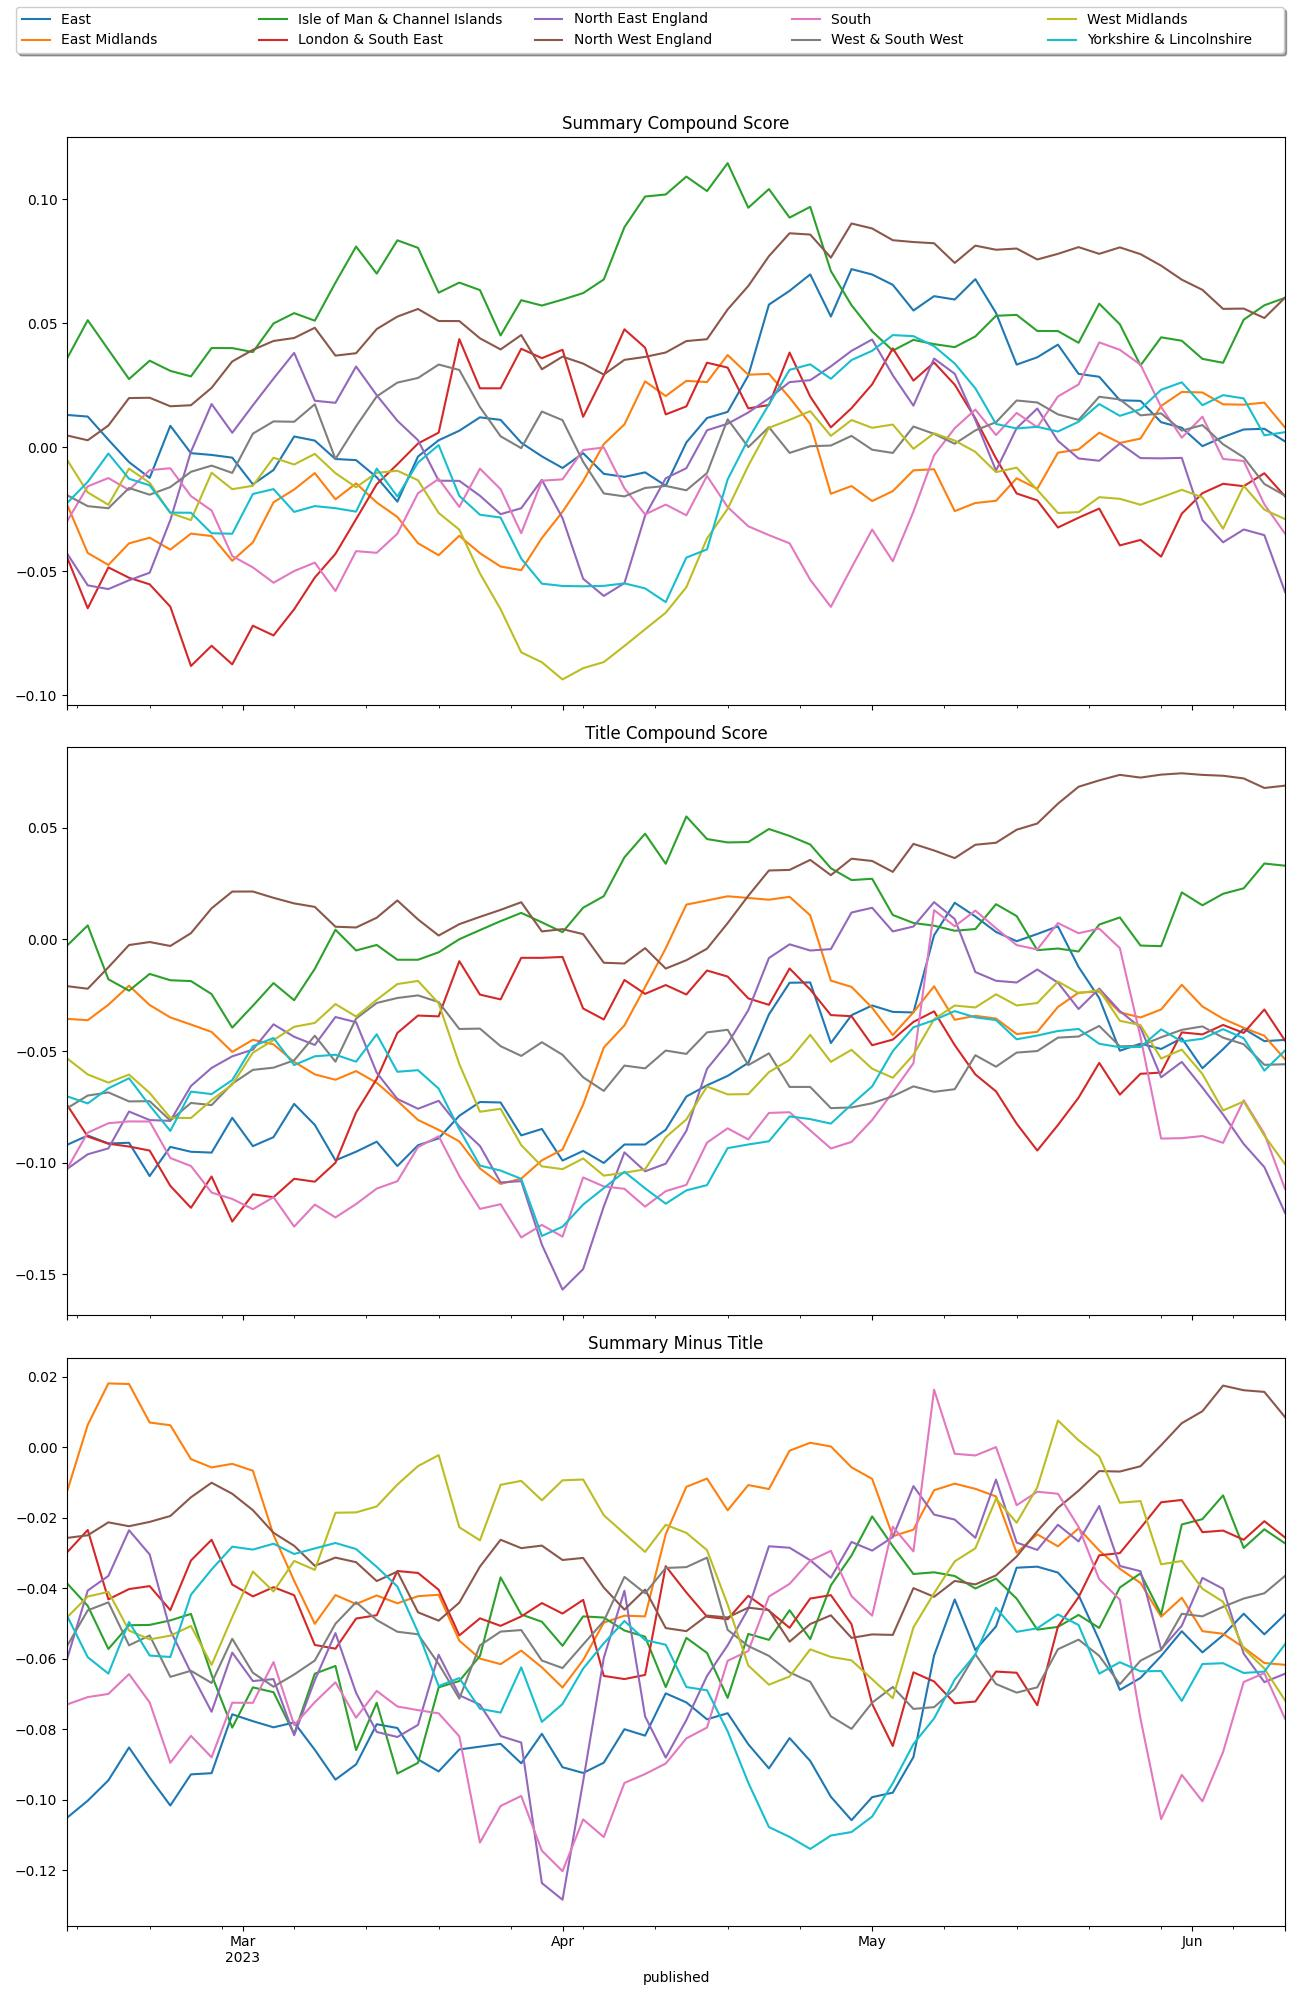
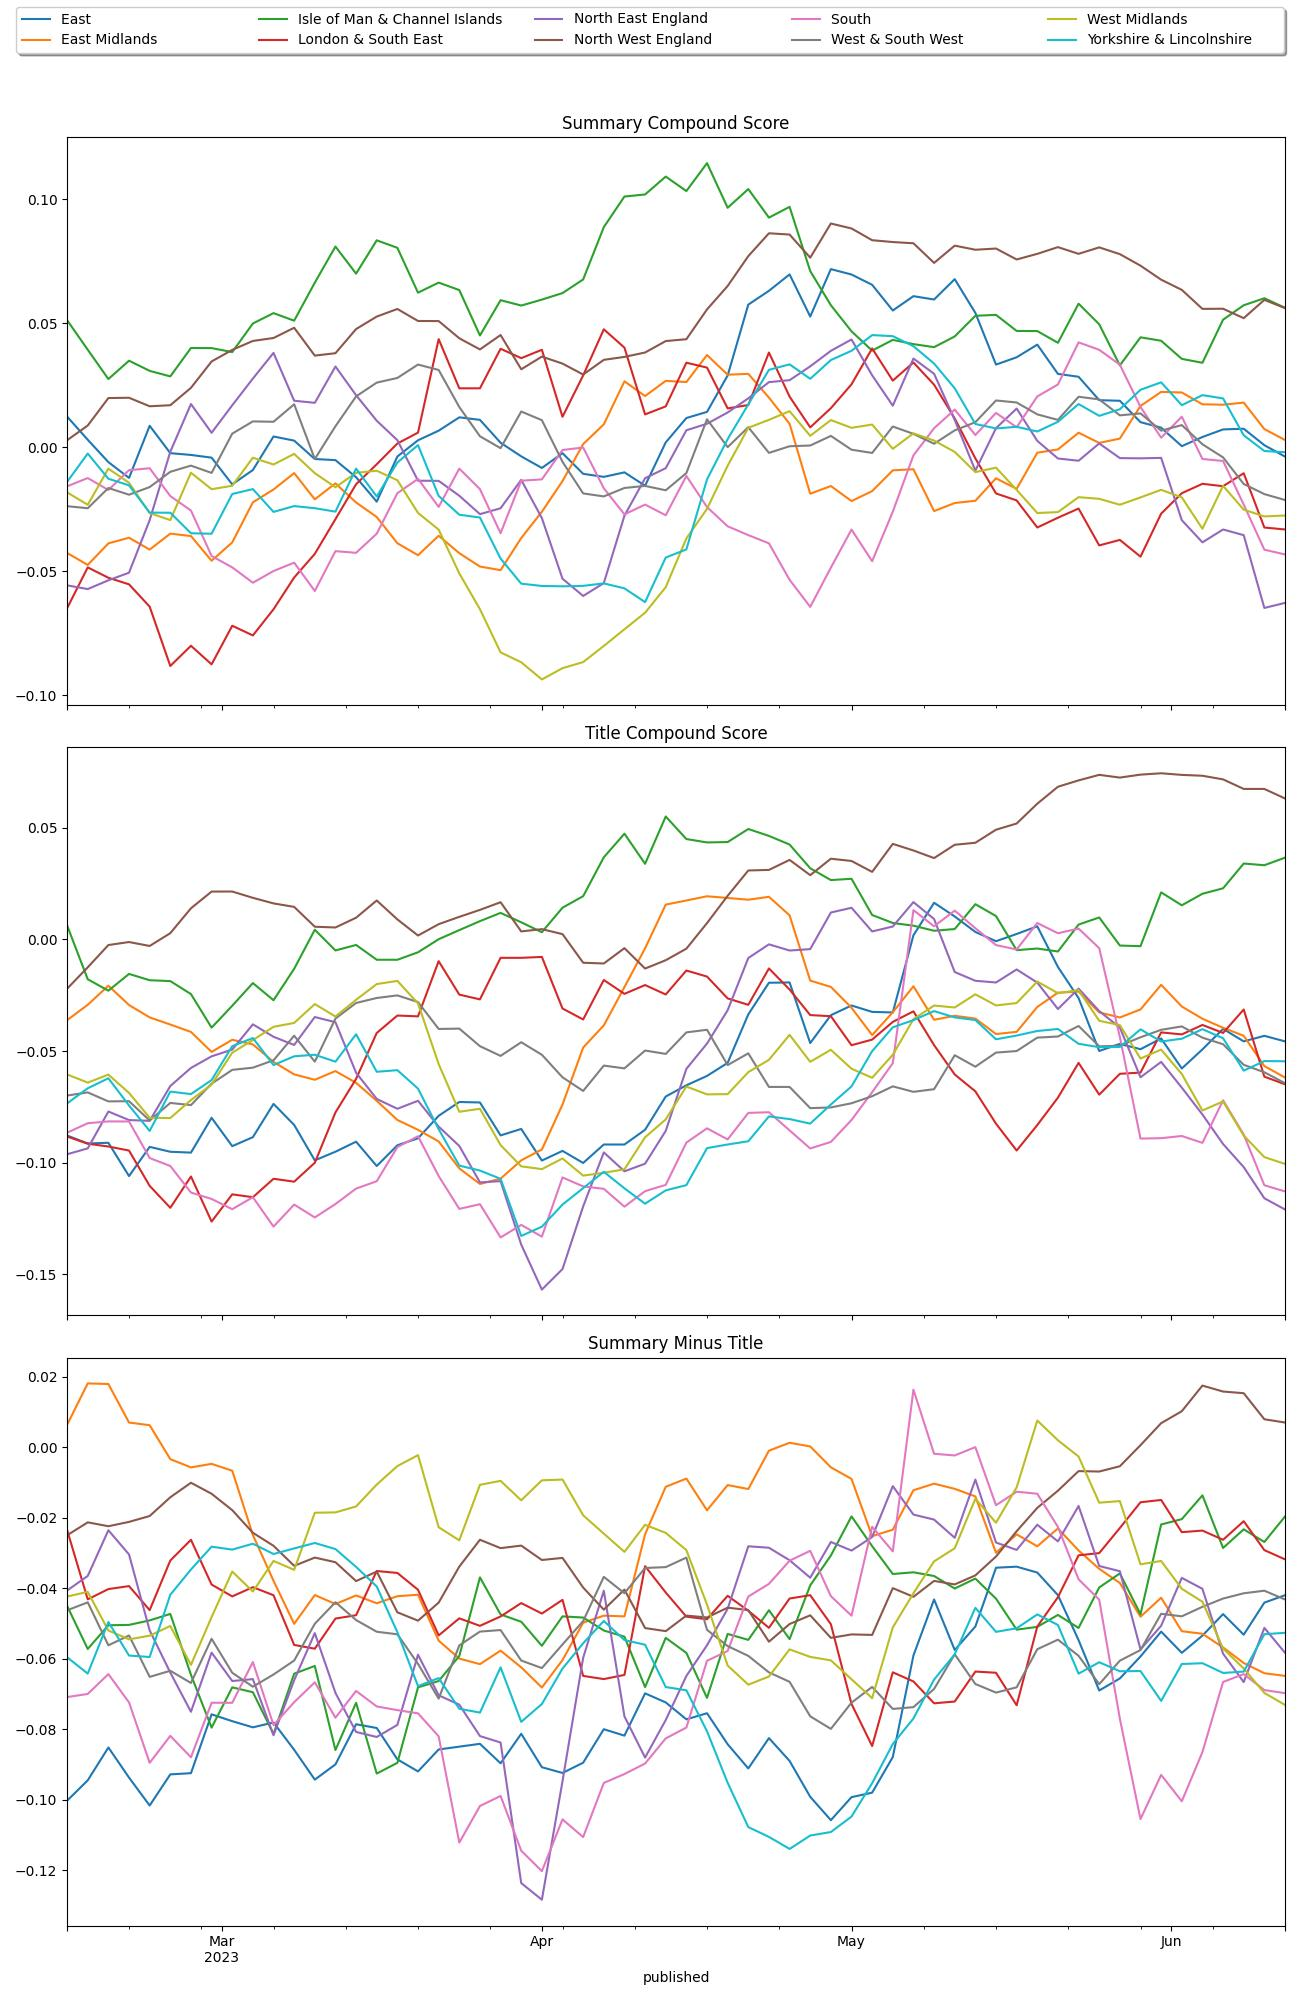
at 2023-06-12 10:48 ran: [Stage: 'complete-basic_report']

diff --git a/reports/complete/latest.md b/reports/complete/latest.md
@@ -1,12 +1,12 @@
-| region                        | published                  | summary                                                                                                            | title                                                | url                                  |   summary_compound_score |   title_compound_score |   summary_minus_title |
-|:------------------------------|:---------------------------|:-------------------------------------------------------------------------------------------------------------------|:-----------------------------------------------------|:-------------------------------------|-------------------------:|-----------------------:|----------------------:|
-| East                          | 2023-06-11 09:18:09        | The energy secretary reflects on the resignation of the former prime minister as an MP.                            | Shapps: People don't miss Johnson 'drama'            | /news/uk-65870511                    |                  -0.0258 |                 0.1139 |                0.1397 |
-| East Midlands                 | 2023-06-11 08:19:19.729000 | The first female Lord Lieutenant of Bedfordshire, Helen Nellis, is auctioning 30 hats in July.                     | Lord Lieutenant's hats to be auctioned for charity   | /news/articles/c512e0p9q46o          |                   0      |                 0.4215 |                0.4215 |
-| Isle of Man & Channel Islands | 2023-06-11 08:26:12        | Government of Jersey extends trial pick-off and drop-off traffic restrictions at primary school.                   | Primary school trial road closure extended           | /news/world-europe-jersey-65857812   |                   0.128  |                 0      |               -0.128  |
-| London & South East           | 2023-06-11 07:13:36        | Derek Martin, 64, also known as Derek Glenn, of Brighton, is charged with two counts of murder.                    | Man charged over couple's murder                     | /news/uk-england-sussex-65870186     |                  -0.7579 |                -0.7579 |                0      |
-| North East England            | 2023-06-10 15:53:04        | Follow live text updates and BBC radio commentary from day one in the latest round of County Championship games.   | County Championship, day one - radio & text          | /sport/live/cricket/64958083         |                   0.4404 |                 0.4404 |                0      |
-| North West England            | 2023-06-11 09:13:04.368000 |                                                                                                                    | When is the parade taking place?                     | /sport/articles/c3g7pp238zno         |                   0      |                 0      |                0      |
-| South                         | 2023-06-10 18:51:02        | The Charlotte Edwards Cup final between The Blaze and Southern Vipers is abandoned because of the relentless rain. | Storm forces Charlotte Edwards Cup final abandonment | /sport/cricket/65867135              |                  -0.4215 |                -0.5267 |               -0.1052 |
-| West & South West             | 2023-06-11 08:55:46        | The motorcyclist died at the scene where his Honda CBR 1000 crashed, say police.                                   | Motorcyclist dies in single-vehicle crash            | /news/uk-england-cornwall-65870784   |                  -0.5574 |                -0.4019 |                0.1555 |
-| West Midlands                 | 2023-06-11 09:21:23        | Paulette Hamilton tells Politics Midlands the license fee payer "needs to have a say" in proposals.                | MP calls for consultation on BBC local radio cuts    | /news/uk-england-birmingham-65862577 |                   0      |                -0.296  |               -0.296  |
-| Yorkshire & Lincolnshire      | 2023-06-11 07:58:58        | Tophill Low near Driffield is home to more than 160 bird species as well as other rare animals.                    | Nature reserve celebrates its 30th anniversary.      | /news/uk-england-humber-65861107     |                   0      |                 0.5719 |                0.5719 |
+| region                        | published           | summary                                                                                                               | title                                               | url                                        |   summary_compound_score |   title_compound_score |   summary_minus_title |
+|:------------------------------|:--------------------|:----------------------------------------------------------------------------------------------------------------------|:----------------------------------------------------|:-------------------------------------------|-------------------------:|-----------------------:|----------------------:|
+| East                          | 2023-06-12 09:17:23 | President of World Women's Snooker Mandy Fisher says two-year tour cards have helped women close the gap on men.      | Snooker's gender gap to narrow, says women's chief  | /sport/snooker/65871212                    |                   0      |                 0      |                0      |
+| East Midlands                 | 2023-06-12 09:15:15 | The barriers and road surface are damaged after a tanker crash on Sunday.                                             | M1 closed for emergency repairs                     | /news/uk-england-beds-bucks-herts-65876842 |                  -0.6808 |                -0.3818 |                0.299  |
+| Isle of Man & Channel Islands | 2023-06-12 08:11:08 | Craig Francis is one of the 1,100 people who are classified as "insecurely housed" in the island.                     | Carpenter faces homelessness amid housing crisis    | /news/world-europe-guernsey-65871192       |                  -0.34   |                -0.6249 |               -0.2849 |
+| London & South East           | 2023-06-12 07:17:47 | Fifteen-year-old Macey was reported missing from Milton Keynes a week ago, police say.                                | Police hunt for man in missing girl case            | /news/uk-england-beds-bucks-herts-65875267 |                  -0.296  |                -0.296  |                0      |
+| North East England            | 2023-06-12 05:10:26 | Bishop Robert Byrne's safeguarding failures included a friendship with a paedophile priest.                           | Bishop 'put people at risk' by ignoring abuse fears | /news/uk-england-tyne-65855035             |                   0.25   |                -0.8957 |               -1.1457 |
+| North West England            | 2023-06-12 09:21:53 | Several tram services in Greater Manchester are disrupted after overhead lines were damaged.                          | Line damage during storm causes tram cancellations  | /news/uk-england-manchester-65875352       |                  -0.1027 |                -0.4939 |               -0.3912 |
+| South                         | 2023-06-12 09:15:10 | Drivers are being urged to allow more time for their journey following the crash near Southampton.                    | Motorway crash during rush hour causes long delays  | /news/uk-england-hampshire-65875965        |                  -0.2023 |                -0.4019 |               -0.1996 |
+| West & South West             | 2023-06-12 08:55:14 | The motorcyclist died at the scene where his Honda CBR 1000 crashed, say police.                                      | Motorcyclist dies in single-vehicle crash           | /news/uk-england-cornwall-65870784         |                  -0.5574 |                -0.4019 |                0.1555 |
+| West Midlands                 | 2023-06-12 09:03:43 | Aston Villa announce Christian Purslow is to step down from his position as chief executive and director of the club. | Purslow steps down as Aston Villa chief executive   | /sport/football/65876630                   |                   0      |                 0      |                0      |
+| Yorkshire & Lincolnshire      | 2023-06-12 04:53:46 | Roads in Halifax, Brighouse, Hebden Bridge, and Holmfield could benefit from the improvements money.                  | Council proposes £6.9m road works scheme            | /news/uk-england-leeds-65858202            |                   0.6486 |                 0      |               -0.6486 |
